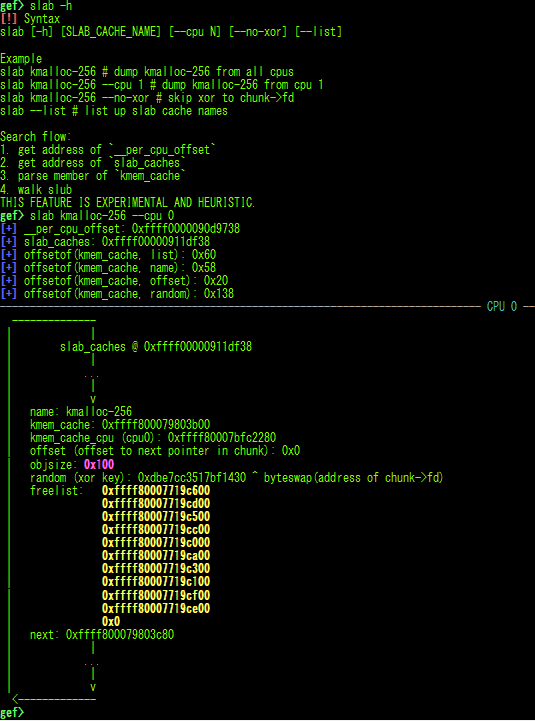
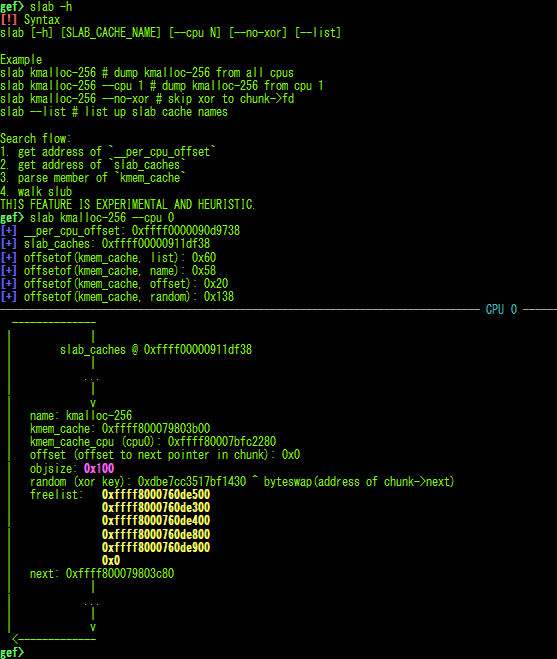
fix slab

diff --git a/gef.py b/gef.py
@@ -17443,17 +17443,51 @@ class SlabCommand(GenericCommand):
     _example_ += "2. get address of `slab_caches`\n"
     _example_ += "3. parse member of `kmem_cache`\n"
     _example_ += "4. walk slub\n"
-    _example_ += "THIS FEATURE IS EXPERIMENTAL AND HEURISTIC."
+    _example_ += "THIS FEATURE IS EXPERIMENTAL AND HEURISTIC.\n"
+    _example_ += "\n"
+    _example_ += "Simplified SLUB structure:\n"
+    _example_ += "                         +-kmem_cache-+         +-kmem_cache-+   +-kmem_cache-+\n"
+    _example_ += "                         | cpu_slab   |---+     | cpu_slab   |   | cpu_slab   |\n"
+    _example_ += "                         | obj_size   |   |     | obj_size   |   | obj_size   |\n"
+    _example_ += "                         | offset     |---|-+   | offset     |   | offset     |\n"
+    _example_ += "       +-slab_caches-+   | name       |   | |   | name       |   | name       |\n"
+    _example_ += " ...<->| list_head   |<->| list_head  |<------->| list_head  |<->| list_head  |<-> ...\n"
+    _example_ += "       +-------------+   | random     |   | |   | random     |   | random     |\n"
+    _example_ += "                         +------------+   | |   +------------+   +------------+\n"
+    _example_ += "                                          | |\n"
+    _example_ += "    +-__per_cpu_offset-+                  | |\n"
+    _example_ += "    | cpu0_offset      |---+--------------+ |\n"
+    _example_ += "    | cpu1_offset      |   |                |\n"
+    _example_ += "    | cpu2_offset      |   |        +-------+\n"
+    _example_ += "    | ...              |   |        |\n"
+    _example_ += "    +------------------+   |        |\n"
+    _example_ += "                           |        |\n"
+    _example_ += "      +--------------------+        |\n"
+    _example_ += "      |                             |\n"
+    _example_ += "      |                 +-chunk--------+  +-chunk--------+  +-chunk--------+\n"
+    _example_ += "      |                 | ^         |  |  | ^            |  | ^            |\n"
+    _example_ += "      v                 | |offset <-+  |  | |offset      |  | |offset      |\n"
+    _example_ += "    +-kmem_cache_cpu-+  | v            |  | v            |  | v            |\n"
+    _example_ += "    | freelist       |->| next         |->| next         |->| next         |->NULL\n"
+    _example_ += "    |                |  |              |  |              |  |              |\n"
+    _example_ += "    +----------------+  +--------------+  +--------------+  +--------------+\n"
+    _example_ += "                        * next has 3 patterns.\n"
+    _example_ += "                          1. next\n"
+    _example_ += "                          2. xor(next, random)\n"
+    _example_ += "                          3. xor(byteswap(next), random)"
     _category_ = "Misc"
 
     """
     struct kmem_cache {
-        struct kmem_cache_cpu *cpu_slab;
-        slab_flags_t flags;
+        struct kmem_cache_cpu *cpu_slab;         // In fact, the offset value, not the pointer
+        slab_flags_t flags;                      // unsigned int (+ padding 4 byte)
         unsigned long min_partial;
         unsigned int size;
         unsigned int object_size;
-        struct reciprocal_value reciprocal_size; // if kernel >= 5.9-rc1
+        struct reciprocal_value {                //
+	    u32 m;                               //
+	    u8 sh1, sh2;                         // (+ padding 2 byte)
+        } reciprocal_size;                       // if kernel >= 5.9-rc1
         unsigned int offset;
         unsigned int cpu_partial;                // if CONFIG_SLUB_CPU_PARTIAL=y
         struct kmem_cache_order_objects oo;
@@ -17686,7 +17720,7 @@ class SlabCommand(GenericCommand):
         else:
             info("slab_caches: {:#x}".format(self.slab_caches))
 
-        # offsetof(kmem_cache,list)
+        # offsetof(kmem_cache, list)
         current = list_next = read_int_from_memory(self.slab_caches)
         for off in range(0, 0x70, current_arch.ptrsize): # backward search for the start of `struct kmem_cache`
             val = read_int_from_memory(current - off)
@@ -17718,21 +17752,21 @@ class SlabCommand(GenericCommand):
         self.kmem_cache_offset_list = off
         info("offsetof(kmem_cache, list): {:#x}".format(self.kmem_cache_offset_list))
 
-        # offsetof(kmem_cache,name)
+        # offsetof(kmem_cache, name)
         self.kmem_cache_offset_name = self.kmem_cache_offset_list - current_arch.ptrsize
         info("offsetof(kmem_cache, name): {:#x}".format(self.kmem_cache_offset_name))
 
-        # offsetof(kmem_cache,offset)
+        # offsetof(kmem_cache, offset)
         top = list_next - self.kmem_cache_offset_list
         objsize = u32(read_memory(top + current_arch.ptrsize*3+4, 4))
         maybe_recip = u32(read_memory(top + current_arch.ptrsize*3+4+4, 4))
-        if objsize < maybe_recip:
+        if objsize < maybe_recip or (maybe_recip % 8) != 0:
             self.kmem_cache_offset_offset = current_arch.ptrsize*3+4+4 + current_arch.ptrsize
         else:
             self.kmem_cache_offset_offset = current_arch.ptrsize*3+4+4
         info("offsetof(kmem_cache, offset): {:#x}".format(self.kmem_cache_offset_offset))
 
-        # offsetof(kmem_cache,random)
+        # offsetof(kmem_cache, random)
         if self.no_xor:
             self.kmem_cache_offset_random = None
         else:
@@ -17775,15 +17809,15 @@ class SlabCommand(GenericCommand):
                 info("offsetof(kmem_cache, random): Not found")
                 self.kmem_cache_offset_random = None # maybe CONFIG_SLAB_FREELIST_HARDENED=n
 
-        # offsetof(kmem_cache,cpu_slab)
+        # offsetof(kmem_cache, cpu_slab)
         self.kmem_cache_offset_cpu_slab = 0
-        # offsetof(kmem_cache,object_size)
+        # offsetof(kmem_cache, object_size)
         self.kmem_cache_offset_object_size = current_arch.ptrsize*3+4
-        # offsetof(kmem_cache_cpu,freelist)
+        # offsetof(kmem_cache_cpu, freelist)
         self.kmem_cache_cpu_offset_freelist = 0
         return True
 
-    def get_next(self, addr, point_to_base=True):
+    def get_next_kmem_cache(self, addr, point_to_base=True):
         if point_to_base:
             addr += self.kmem_cache_offset_list
         return read_int_from_memory(addr) - self.kmem_cache_offset_list
@@ -17804,13 +17838,13 @@ class SlabCommand(GenericCommand):
         else:
             return read_int_from_memory(addr + self.kmem_cache_offset_random)
 
-    def get_cpu_slab(self, addr, cpu):
-        cpu_slab_offset = read_int_from_memory(addr + self.kmem_cache_offset_cpu_slab)
-        cpu_slab = cpu_slab_offset + self.cpu_offset[cpu]
+    def get_kmem_cache_cpu(self, addr, cpu):
+        cpu_slab = read_int_from_memory(addr + self.kmem_cache_offset_cpu_slab)
+        kmem_cache_cpu = cpu_slab + self.cpu_offset[cpu]
         if is_64bit():
-            return cpu_slab & 0xffffffffffffffff
+            return kmem_cache_cpu & 0xffffffffffffffff
         else:
-            return cpu_slab & 0xffffffff
+            return kmem_cache_cpu & 0xffffffff
 
     def get_freelist(self, addr):
         return read_int_from_memory(addr + self.kmem_cache_cpu_offset_freelist)
@@ -17849,21 +17883,21 @@ class SlabCommand(GenericCommand):
         return chunk
 
     def walk_caches(self, cpu):
-        nxt = self.get_next(self.slab_caches, point_to_base=False)
-        self.parsed_caches = [{'name': 'slab_caches', 'next': nxt}]
+        current_kmem_cache = self.get_next_kmem_cache(self.slab_caches, point_to_base=False)
+        self.parsed_caches = [{'name': 'slab_caches', 'next': current_kmem_cache}]
         self.swap = None
 
-        while nxt + self.kmem_cache_offset_list != self.slab_caches:
+        while current_kmem_cache + self.kmem_cache_offset_list != self.slab_caches:
             new_cache = {}
             # parse member
-            new_cache['address'] = nxt
-            new_cache['objsize'] = objsize = self.get_objsize(nxt)
-            new_cache['offset'] = offset = self.get_offset(nxt)
-            new_cache['name'] = name = self.get_name(nxt)
-            new_cache['random'] = self.get_random(nxt)
+            new_cache['address'] = current_kmem_cache
+            new_cache['objsize'] = objsize = self.get_objsize(current_kmem_cache)
+            new_cache['offset'] = offset = self.get_offset(current_kmem_cache)
+            new_cache['name'] = name = self.get_name(current_kmem_cache)
+            new_cache['random'] = self.get_random(current_kmem_cache)
             # parse free_list
-            new_cache['cpu_slab'] = cpu_slab = self.get_cpu_slab(nxt, cpu)
-            chunk = self.get_freelist(cpu_slab)
+            new_cache['kmem_cache_cpu'] = kmem_cache_cpu = self.get_kmem_cache_cpu(current_kmem_cache, cpu)
+            chunk = self.get_freelist(kmem_cache_cpu)
             new_cache['freelist'] = [chunk]
             while chunk:
                 try:
@@ -17875,14 +17909,14 @@ class SlabCommand(GenericCommand):
                 if self.kmem_cache_offset_random is not None: # fix if randomized
                     chunk = self.pointer_xor(addr, chunk, new_cache)
                 if chunk % 8:
-                    new_cache['freelist'].append("{:#x}: {:s}".format(free, Color.colorify("Corrupted (Not aligned)", "bold yellow")))
+                    new_cache['freelist'].append("{:#x}: {:s}".format(chunk, Color.colorify("Corrupted (Not aligned)", "bold yellow")))
                     break
                 if chunk in new_cache['freelist']:
-                    new_cache['freelist'].append("{:#x}: {:s}".format(free, Color.colorify("Corrupted (Loop detected)", "bold yellow")))
+                    new_cache['freelist'].append("{:#x}: {:s}".format(chunk, Color.colorify("Corrupted (Loop detected)", "bold yellow")))
                     break
                 new_cache['freelist'].append(chunk)
             # goto next
-            new_cache['next'] = nxt = self.get_next(nxt)
+            new_cache['next'] = current_kmem_cache = self.get_next_kmem_cache(current_kmem_cache)
             self.parsed_caches.append(new_cache)
         return
 
@@ -17901,14 +17935,14 @@ class SlabCommand(GenericCommand):
                 continue
             gef_print(' |   name: {:s}'.format(c['name']))
             gef_print(' |   kmem_cache: {:#x}'.format(c['address']))
-            gef_print(' |   kmem_cache_cpu (cpu{:d}): {:#x}'.format(cpu, c['cpu_slab']))
+            gef_print(' |   kmem_cache_cpu (cpu{:d}): {:#x}'.format(cpu, c['kmem_cache_cpu']))
             gef_print(' |   offset (offset to next pointer in chunk): {:#x}'.format(c['offset']))
             gef_print(' |   objsize: {:s}'.format(Color.colorify("{:#x}".format(c['objsize']), "bold pink")))
             if c['random']:
                 if self.no_xor == False and self.swap == True:
-                    gef_print(' |   random (xor key): {:#x} ^ byteswap(address of chunk->fd)'.format(c['random']))
+                    gef_print(' |   random (xor key): {:#x} ^ byteswap(address of chunk->next)'.format(c['random']))
                 else:
-                    gef_print(' |   random (xor key): {:#x} ^ address of chunk->fd'.format(c['random']))
+                    gef_print(' |   random (xor key): {:#x} ^ address of chunk->next'.format(c['random']))
             if len(c['freelist']) > 0:
                 if isinstance(c['freelist'][0], str):
                     gef_print(' |   freelist:   {:s}'.format(c['freelist'][0]))
@@ -17971,8 +18005,7 @@ class SlabCommand(GenericCommand):
             self.cpuN = None
             while "--cpu" in argv:
                 idx = argv.index("--cpu")
-                cpuN = argv[idx + 1]
-                self.cpuN = int(cpuN)
+                self.cpuN = int(argv[idx + 1])
                 argv = argv[:idx] + argv[idx+2:]
         except:
             self.usage()
